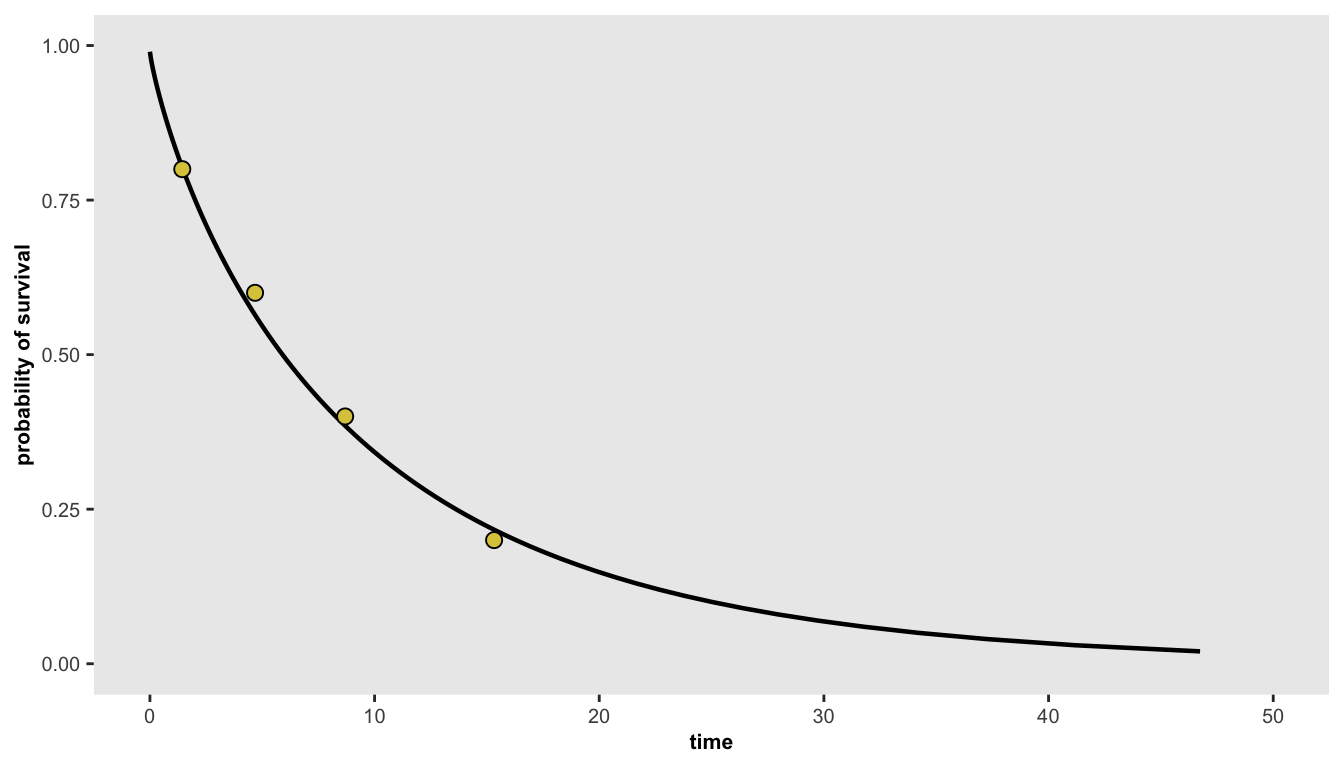
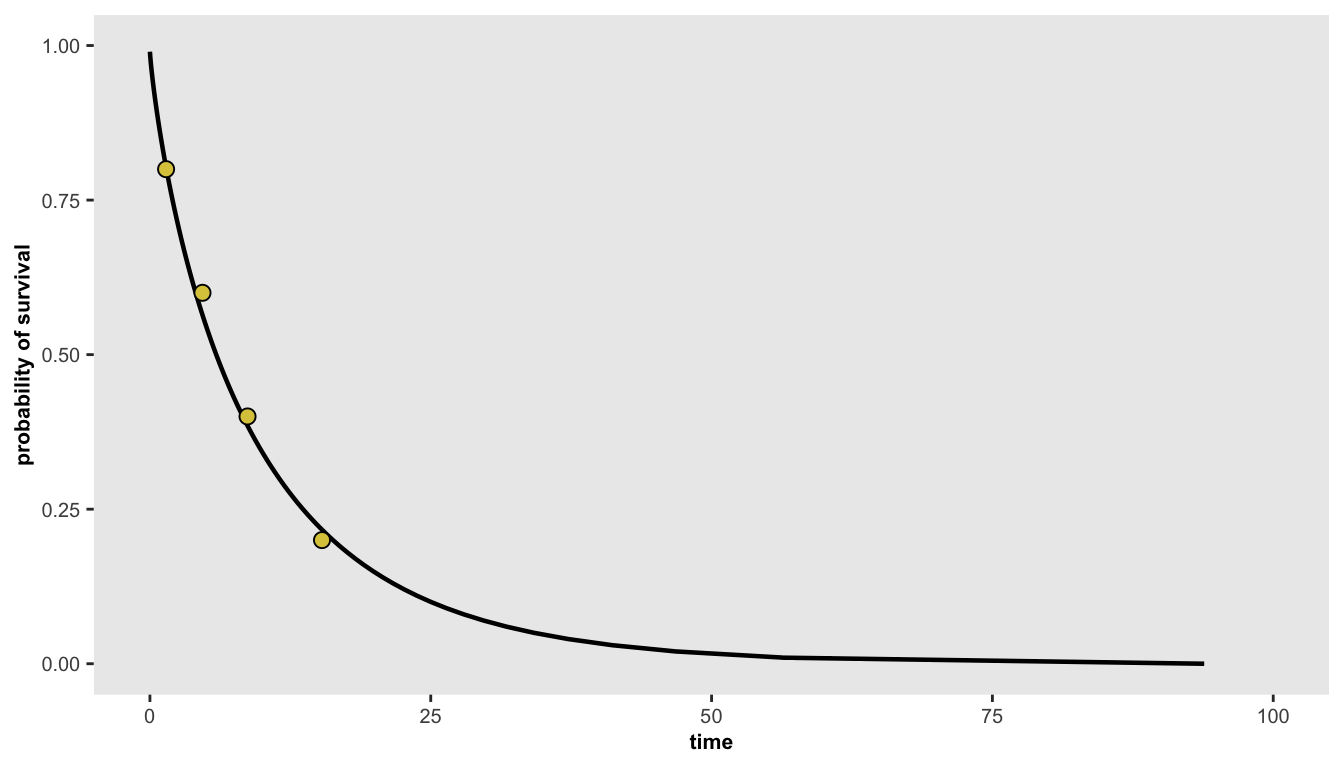
Updating draft

diff --git a/content/post/2025-05-13-planning-for-a-three-arm-trial-with-a-nested-intervention/index.en.html b/content/post/2025-05-13-planning-for-a-three-arm-trial-with-a-nested-intervention/index.en.html
@@ -39,41 +39,48 @@ set.seed(8271)</code></pre>
 </div>
 <div id="generating-time-to-event-data" class="section level3">
 <h3>Generating time-to-event data</h3>
-<div id="get-parameters-that-define-survival-curve" class="section level4">
-<h4>Get parameters that define survival curve</h4>
-<pre class="r"><code>mq &lt;- c(1.44, 4.68, 8.69, 15.32)
+<p>When simulating time-to-event outcomes, one of the first decisions is what the underlying survival curves should look like. I typically start by defining a curve for the control (baseline) condition, and then generate curves for the intervention arms relative to that baseline.</p>
+<div id="getting-parameters-that-define-survival-curve" class="section level4">
+<h4>Getting parameters that define survival curve</h4>
+<p>We identified a comparable study that reported quintiles for the time-to-event outcome. Specifically, 20% of participants had a follow-up within 1.4 months, 40% by 4.7 months, 60% by 8.7 months, and 80% by just over 15 months. We used the <code>survGetParams</code> function from the <code>simstudy</code> package to estimate the Weibull distribution parameters—the intercept in the Weibull formula and the shape—that characterize this baseline survival curve.</p>
+<pre class="r"><code>q20 &lt;- c(1.44, 4.68, 8.69, 15.32)
 
-points &lt;- list(c(mq[1], 0.80), c(mq[2], 0.60), c(mq[3], .40), c(mq[4], .2))
-r &lt;- survGetParams(points)
+points &lt;- list(c(q20[1], 0.80), c(q20[2], 0.60), c(q20[3], 0.40), c(q20[4], 0.20))
+s &lt;- survGetParams(points)
 
-survParamPlot(f = r[1], shape = r[2], points, limits = c(0,50))</code></pre>
+s</code></pre>
+<pre><code>## [1] -1.868399  1.194869</code></pre>
+<p>We can visualize the idealized survival curve that will be generated using these parameters stored in the vector <code>s</code>:</p>
+<pre class="r"><code>survParamPlot(f = s[1], shape = s[2], points, limits = c(0, 100))</code></pre>
 <p><img src="{{< blogdown/postref >}}index.en_files/figure-html/plot_parameters-1.png" width="672" /></p>
 </div>
 </div>
 <div id="generating-data-for-a-simpler-two-arm-rct" class="section level3">
 <h3>Generating data for a simpler two-arm RCT</h3>
-<div id="visualize-curve-and-assess-its-properties" class="section level4">
-<h4>Visualize curve and assess its properties</h4>
+<p>Before getting into the more complicated three-armed cluster randomized trial, I first simulated data from a much simpler, two-armed randomized controlled trial. The only covariate at the individual level is the binary treatment indicator <span class="math inline">\(A\)</span> which takes on values of <span class="math inline">\(0\)</span> and <span class="math inline">\(1\)</span>. The time-to-event outcom is a function of the Weibull parameters we just generated based on the quintiles as well as the treatment indicator.</p>
+<div id="visualizing-the-curve-and-assessing-its-properties" class="section level4">
+<h4>Visualizing the curve and assessing its properties</h4>
 <pre class="r"><code>def &lt;- defData(varname = &quot;A&quot;, formula = &quot;1;1&quot;, dist = &quot;trtAssign&quot;)
 
 defS &lt;- 
   defSurv(varname = &quot;time&quot;, formula = &quot;..int + A * ..eff&quot;, shape = &quot;..shape&quot;) |&gt;
-  defSurv(varname = &quot;censor&quot;, formula = -40, scale = 0.5, shape = .10)</code></pre>
-<pre class="r"><code>int &lt;- r[1]
-shape &lt;- r[2]
+  defSurv(varname = &quot;censor&quot;, formula = -40, scale = 0.5, shape = 0.10)</code></pre>
+<p>I generated a very large data set to that we can recreate the idealized curve from above. I assumed a hazard ratio of 2 (which is actually parameterized on the log scale):</p>
+<pre class="r"><code>int &lt;- s[1]
+shape &lt;- s[2]
 
 eff &lt;- log(2)
 
 dd &lt;- genData(100000, def)
-dd &lt;- genSurv(dd, defS, timeName = &quot;time&quot;, censorName = &quot;censor&quot;)
-
-dd[A==0, quantile(time, probs = c(0.20, 0.50, 0.80))]</code></pre>
-<pre><code>##     20%     50%     80% 
-##  1.5778  6.0790 16.3860</code></pre>
+dd &lt;- genSurv(dd, defS, timeName = &quot;time&quot;, censorName = &quot;censor&quot;)</code></pre>
+<p>Here are the quintiles (and median) from the control arm:</p>
+<pre class="r"><code>dd[A==0, round(quantile(time, probs = c(0.20, 0.40, 0.50, 0.60, 0.80)), 2)]</code></pre>
+<pre><code>##   20%   40%   50%   60%   80% 
+##  1.58  4.25  6.08  8.48 16.39</code></pre>
 <p><img src="{{< blogdown/postref >}}index.en_files/figure-html/plot_ideal_curves-1.png" width="672" /></p>
 </div>
-<div id="model-fit" class="section level4">
-<h4>Model fit</h4>
+<div id="modeling-fit" class="section level4">
+<h4>Modeling fit</h4>
 <pre class="r"><code>fit &lt;- coxph(Surv(time, event) ~  factor(A), data = dd)
 tidy(fit, exponentiate = TRUE)</code></pre>
 <pre><code>## # A tibble: 1 × 5
